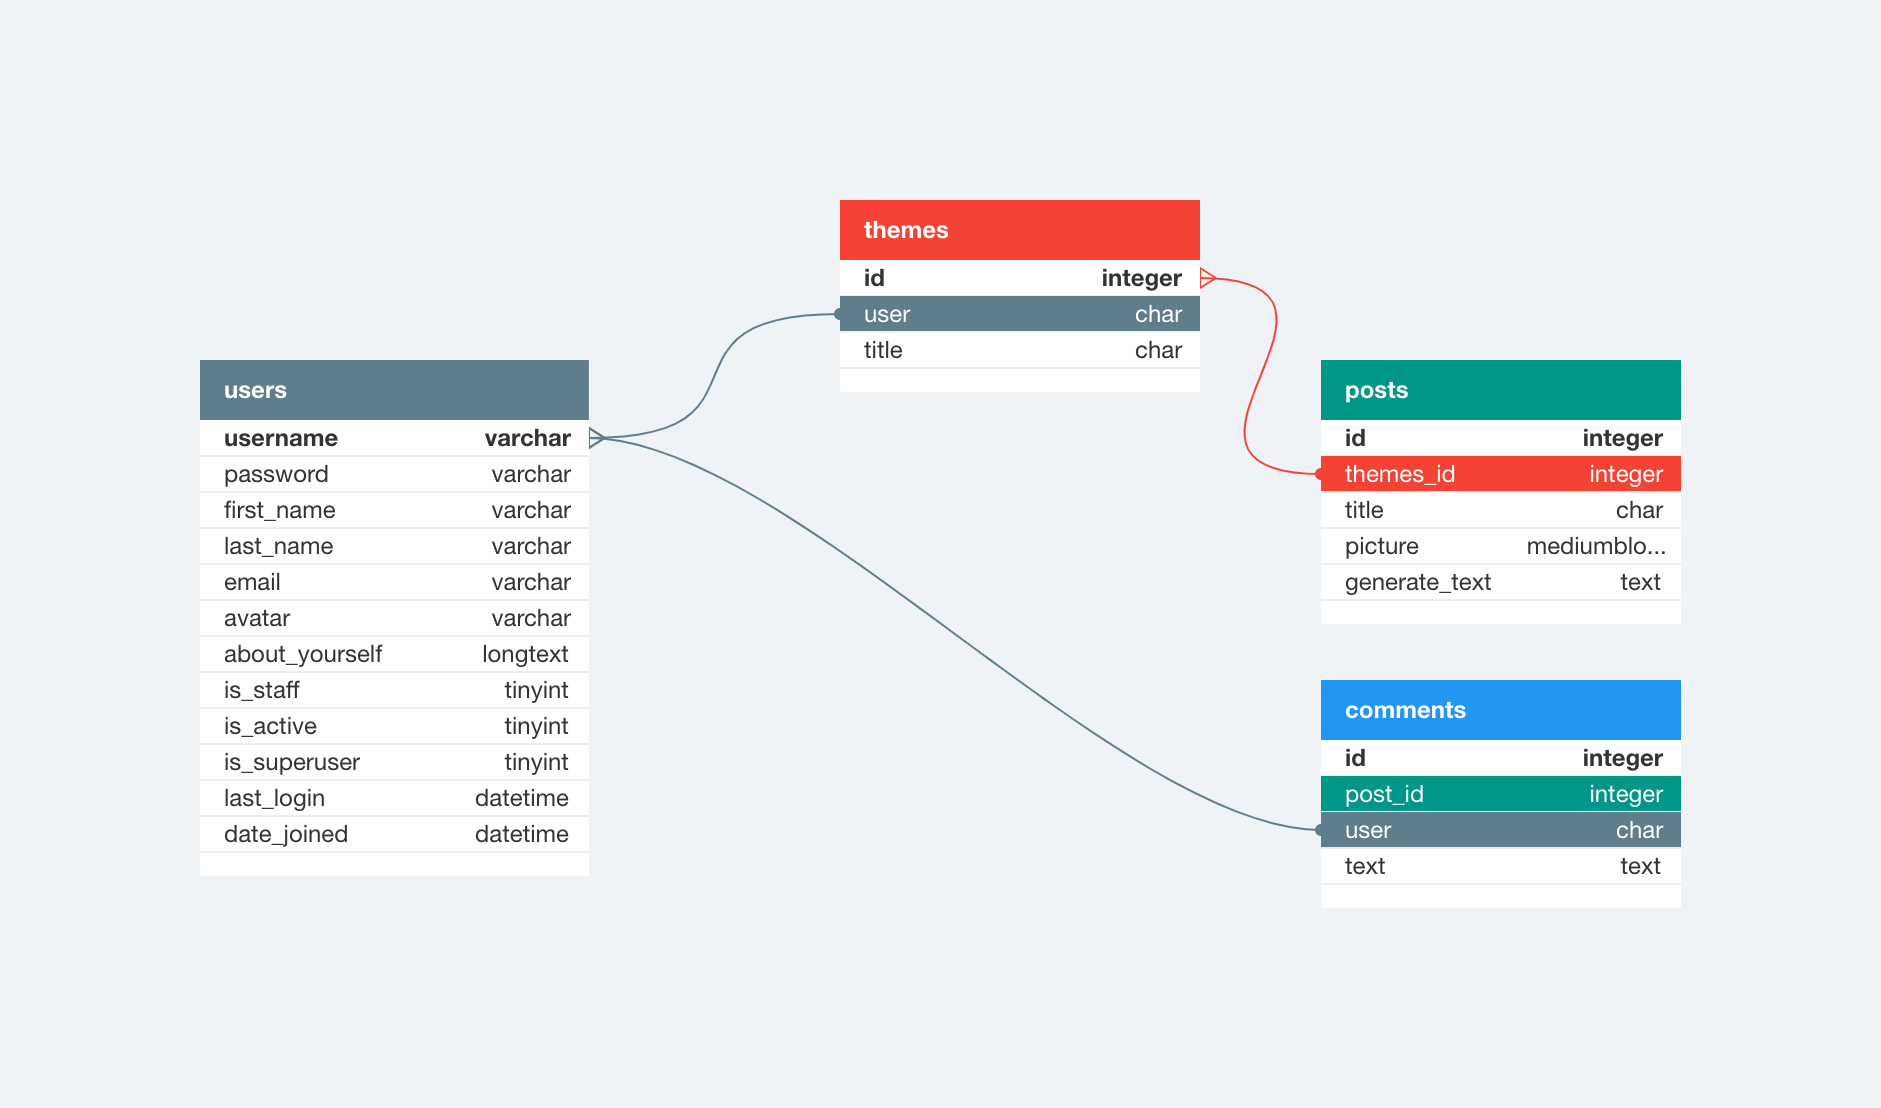
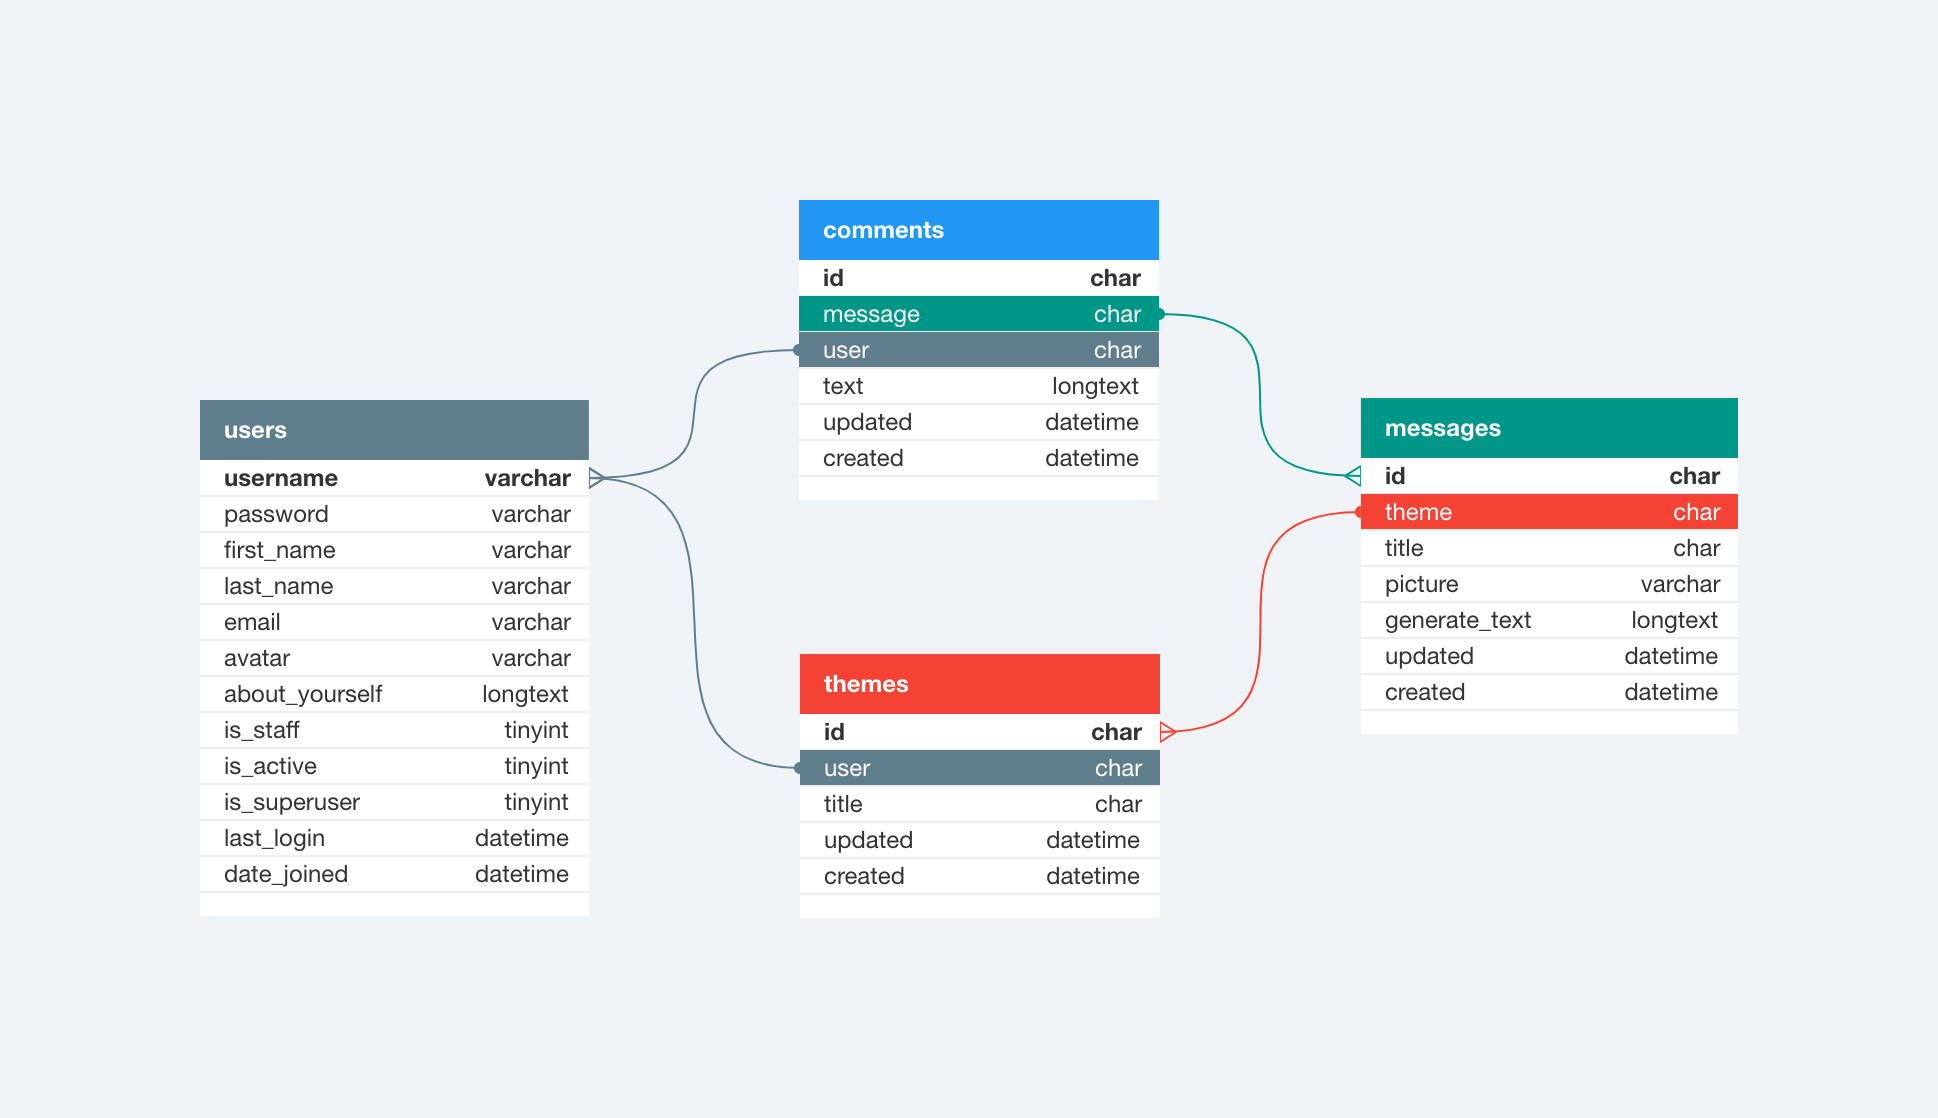
feat: add communications

diff --git a/src/communications/templates/communications/message_form.html b/src/communications/templates/communications/message_form.html
@@ -1,0 +1,18 @@
+<!DOCTYPE html>
+<html lang="en">
+<head>
+  <meta charset="UTF-8">
+  <meta http-equiv="X-UA-Compatible" content="IE=edge">
+  <meta name="viewport" content="width=device-width, initial-scale=1.0">
+  <title>Title</title>
+</head>
+<body>
+
+  <form method="POST" enctype="multipart/form-data" action="{% url 'message-create' %}?theme={{ request.GET.theme }}">
+    {% csrf_token %}
+    {{ form.as_p }}
+    <button type="submit">Создать сообщение</button>
+  </form>
+
+</body>
+</html>

diff --git a/src/communications/templates/communications/theme_form.html b/src/communications/templates/communications/theme_form.html
@@ -1,0 +1,18 @@
+<!DOCTYPE html>
+<html lang="en">
+<head>
+  <meta charset="UTF-8">
+  <meta http-equiv="X-UA-Compatible" content="IE=edge">
+  <meta name="viewport" content="width=device-width, initial-scale=1.0">
+  <title>Title</title>
+</head>
+<body>
+
+  <form method="post" action="{% url 'theme-create' %}">
+    {% csrf_token %}
+    {{ form.as_p }}
+    <button type="submit">Создать тему</button>
+  </form>
+
+</body>
+</html>

diff --git a/src/communications/templates/communications/message_list.html b/src/communications/templates/communications/message_list.html
@@ -1,0 +1,16 @@
+<!DOCTYPE html>
+<html lang="en">
+<head>
+  <meta charset="UTF-8">
+  <meta http-equiv="X-UA-Compatible" content="IE=edge">
+  <meta name="viewport" content="width=device-width, initial-scale=1.0">
+  <title>Title</title>
+</head>
+<body>
+
+  {% for message in messages %}
+    <p>{{ message }}</p>
+  {% endfor %}
+
+</body>
+</html>

diff --git a/src/communications/templates/communications/theme_list.html b/src/communications/templates/communications/theme_list.html
@@ -1,0 +1,16 @@
+<!DOCTYPE html>
+<html lang="en">
+<head>
+  <meta charset="UTF-8">
+  <meta http-equiv="X-UA-Compatible" content="IE=edge">
+  <meta name="viewport" content="width=device-width, initial-scale=1.0">
+  <title>Title</title>
+</head>
+<body>
+
+  {% for theme in themes %}
+    <p>{{ theme }}</p>
+  {% endfor %}
+
+</body>
+</html>

diff --git a/src/communications/templates/communications/message_detail.html b/src/communications/templates/communications/message_detail.html
@@ -1,0 +1,14 @@
+<!DOCTYPE html>
+<html lang="en">
+<head>
+  <meta charset="UTF-8">
+  <meta http-equiv="X-UA-Compatible" content="IE=edge">
+  <meta name="viewport" content="width=device-width, initial-scale=1.0">
+  <title>Title</title>
+</head>
+<body>
+
+  {{ object }}
+
+</body>
+</html>

diff --git a/src/communications/templates/communications/theme_detail.html b/src/communications/templates/communications/theme_detail.html
@@ -1,0 +1,14 @@
+<!DOCTYPE html>
+<html lang="en">
+<head>
+  <meta charset="UTF-8">
+  <meta http-equiv="X-UA-Compatible" content="IE=edge">
+  <meta name="viewport" content="width=device-width, initial-scale=1.0">
+  <title>Title</title>
+</head>
+<body>
+
+  {{ object }}
+
+</body>
+</html>

diff --git a/src/communications/migrations/0001_initial.py b/src/communications/migrations/0001_initial.py
@@ -1,0 +1,65 @@
+# Generated by Django 4.2.3 on 2023-07-25 13:54
+
+import uuid
+
+import django.db.models.deletion
+import tinymce.models
+from django.conf import settings
+from django.db import migrations, models
+
+
+class Migration(migrations.Migration):
+
+    initial = True
+
+    dependencies = [
+        migrations.swappable_dependency(settings.AUTH_USER_MODEL),
+    ]
+
+    operations = [
+        migrations.CreateModel(
+            name='Theme',
+            fields=[
+                ('id', models.UUIDField(default=uuid.uuid4, editable=False, primary_key=True, serialize=False)),
+                ('created', models.DateTimeField(auto_now_add=True, verbose_name='Дата создания')),
+                ('updated', models.DateTimeField(auto_now=True, verbose_name='Дата последнего обновления')),
+                ('title', models.CharField(max_length=150, verbose_name='Название')),
+                ('user', models.ForeignKey(on_delete=django.db.models.deletion.CASCADE, related_name='themes', to=settings.AUTH_USER_MODEL, verbose_name='Пользователь')),
+            ],
+            options={
+                'verbose_name': 'Тема',
+                'verbose_name_plural': 'Темы',
+            },
+        ),
+        migrations.CreateModel(
+            name='Message',
+            fields=[
+                ('id', models.UUIDField(default=uuid.uuid4, editable=False, primary_key=True, serialize=False)),
+                ('created', models.DateTimeField(auto_now_add=True, verbose_name='Дата создания')),
+                ('updated', models.DateTimeField(auto_now=True, verbose_name='Дата последнего обновления')),
+                ('title', models.CharField(max_length=150, verbose_name='Название')),
+                ('picture', models.ImageField(upload_to='pictures', verbose_name='Картинка')),
+                ('generate_text', models.TextField(blank=True, verbose_name='Сгенерированный текст')),
+                ('theme', models.ForeignKey(on_delete=django.db.models.deletion.CASCADE, related_name='messages', to='communications.theme', verbose_name='Тема')),
+            ],
+            options={
+                'verbose_name': 'Сообщение',
+                'verbose_name_plural': 'Сообщения',
+            },
+        ),
+        migrations.CreateModel(
+            name='Comment',
+            fields=[
+                ('id', models.UUIDField(default=uuid.uuid4, editable=False, primary_key=True, serialize=False)),
+                ('created', models.DateTimeField(auto_now_add=True, verbose_name='Дата создания')),
+                ('updated', models.DateTimeField(auto_now=True, verbose_name='Дата последнего обновления')),
+                ('text', tinymce.models.HTMLField(verbose_name='текст')),
+                ('message', models.ForeignKey(on_delete=django.db.models.deletion.CASCADE, related_name='comments', to='communications.message', verbose_name='Сообщение')),
+                ('user', models.ForeignKey(on_delete=django.db.models.deletion.CASCADE, related_name='comments', to=settings.AUTH_USER_MODEL, verbose_name='Пользователь')),
+            ],
+            options={
+                'verbose_name': 'Комментарий',
+                'verbose_name_plural': 'Комментарии',
+            },
+        ),
+    ]

diff --git a/src/communications/views.py b/src/communications/views.py
@@ -1,0 +1,89 @@
+from django.contrib.auth.mixins import LoginRequiredMixin
+from django.core.exceptions import ValidationError
+from django.http import HttpResponseBadRequest
+from django.shortcuts import get_object_or_404
+from django.views.generic import CreateView, DetailView, ListView, View
+
+from users.models import User
+
+from .models import Message, Theme
+
+
+class ErrorHandlingMixin(View):
+    def dispatch(self, request, *args, **kwargs):
+        try:
+            return super().dispatch(request, *args, **kwargs)
+        except ValidationError as e:
+            return HttpResponseBadRequest(str(e))
+
+
+class ThemeListView(ErrorHandlingMixin, ListView):
+    model = Theme
+    # template_name = 'communications/theme_list.html'
+    context_object_name = 'themes'
+
+    def get_queryset(self):
+        username = self.request.GET.get('user')
+        if username is None:
+            raise ValidationError('Missing "user" parameter.', code='invalid_username')
+        user = get_object_or_404(User, pk=username)
+        return Theme.objects.filter(user=user).order_by('-updated')
+
+
+class ThemeCreateView(LoginRequiredMixin, CreateView):
+    model = Theme
+    # template_name = 'communications/theme_form.html'
+    fields = ('title',)
+
+    def form_valid(self, form):
+        form.instance.user = self.request.user
+        return super().form_valid(form)
+
+    def get_context_data(self, **kwargs):
+        ctx = super().get_context_data(**kwargs)
+        # ctx['title'] = News.objects.filter(pk=self.kwargs['pk']).first()
+        # ctx['title'] = 'Добавление статьи'
+        return ctx
+
+
+class ThemeDetailView(LoginRequiredMixin, DetailView):
+    model = Theme
+    # template_name = 'communications/theme_detail.html'
+
+    def get_context_data(self, **kwargs):
+        ctx = super().get_context_data(**kwargs)
+        # ctx['title'] = Course.objects.filter(slug=self.kwargs['slug']).first()
+        # ctx['lessons'] = Lesson.objects.filter(course=ctx['title']).order_by('number')
+        return ctx
+
+
+class MessageListView(ErrorHandlingMixin, ListView):
+    model = Message
+    # template_name = 'communications/message_list.html'
+    context_object_name = 'messages'
+
+    def get_queryset(self):
+        theme_id = self.request.GET.get('theme')
+        if theme_id is None:
+            raise ValidationError('Missing "theme" parameter.', code='invalid_theme_id')
+        theme = get_object_or_404(Theme, pk=theme_id)
+        return Message.objects.filter(theme=theme).order_by('-updated')
+
+
+class MessageCreateView(LoginRequiredMixin, ErrorHandlingMixin, CreateView):
+    model = Message
+    # template_name = 'Communications/message_form.html'
+    fields = ('title', 'picture')
+
+    def form_valid(self, form):
+        theme_id = self.request.GET.get('theme')
+        if theme_id is None:
+            raise ValidationError('Missing "theme" parameter.', code='invalid_theme_id')
+        form.instance.theme = get_object_or_404(Theme, pk=theme_id)
+        form.instance.title = 'название'
+        return super().form_valid(form)
+
+
+class MessageDetailView(LoginRequiredMixin, DetailView):
+    model = Message
+    # template_name = 'communications/message_detail.html'

diff --git a/src/communications/models.py b/src/communications/models.py
@@ -1,0 +1,67 @@
+import uuid
+
+from django.db import models
+from django.urls import reverse
+from django.utils.html import strip_tags
+from tinymce import models as tinymce_models
+
+from users.models import User
+
+
+class BaseModel(models.Model):
+    id = models.UUIDField(primary_key=True, default=uuid.uuid4, editable=False)
+    created = models.DateTimeField('Дата создания', auto_now_add=True)
+    updated = models.DateTimeField('Дата последнего обновления', auto_now=True)
+
+    class Meta:
+        abstract = True
+
+
+class Message(BaseModel):
+    title = models.CharField('Название', max_length=150)
+    picture = models.ImageField('Картинка', upload_to='pictures')
+    generate_text = models.TextField('Сгенерированный текст', blank=True)
+    theme = models.ForeignKey('Theme', on_delete=models.CASCADE,
+                              verbose_name='Тема', related_name='messages')
+
+    class Meta:
+        verbose_name = 'Сообщение'
+        verbose_name_plural = 'Сообщения'
+
+    def get_absolute_url(self):
+        return reverse('message-detail', kwargs={'pk': self.pk})
+
+    def __str__(self):
+        return self.title if len(self.title) <= 24 else self.title[:24] + '...'
+
+
+class Theme(BaseModel):
+    title = models.CharField('Название', max_length=150)
+    user = models.ForeignKey(User, on_delete=models.CASCADE,
+                             verbose_name='Пользователь', related_name='themes')
+
+    class Meta:
+        verbose_name = 'Тема'
+        verbose_name_plural = 'Темы'
+
+    def get_absolute_url(self):
+        return reverse('theme-detail', kwargs={'pk': self.pk})
+
+    def __str__(self):
+        return self.title if len(self.title) <= 24 else self.title[:24] + '...'
+
+
+class Comment(BaseModel):
+    text = tinymce_models.HTMLField('текст')
+    message = models.ForeignKey('Message', on_delete=models.CASCADE,
+                                verbose_name='Сообщение', related_name='comments')
+    user = models.ForeignKey(User, on_delete=models.CASCADE,
+                             verbose_name='Пользователь', related_name='comments')
+
+    class Meta:
+        verbose_name = 'Комментарий'
+        verbose_name_plural = 'Комментарии'
+
+    def __str__(self):
+        text = strip_tags(self.text)
+        return text if len(text) <= 24 else text[:24] + '...'

diff --git a/src/communications/admin.py b/src/communications/admin.py
@@ -1,0 +1,48 @@
+from django.contrib import admin
+from django.utils.html import format_html
+
+from .models import Comment, Message, Theme
+
+
+@admin.register(Message)
+class MessageAdmin(admin.ModelAdmin):
+    list_display = ('id', 'title', 'theme', 'created')
+    list_display_links = ('id', 'title')
+    ordering = ('updated',)
+    search_fields = ('title',)
+    list_filter = ('theme', 'created')
+
+    fields = ('title', 'preview_picture', 'picture', 'generate_text', 'theme', 'theme_user', 'updated', 'created')
+    raw_id_fields = ('theme',)
+    readonly_fields = ('preview_picture', 'theme_user', 'updated', 'created')
+
+    @admin.display(description='предпросмотр')
+    def preview_picture(self, message):
+        return format_html('<img src="{}" style="max-width: 256px;">', message.picture.url)
+
+    @admin.display(description='автор')
+    def theme_user(self, message):
+        return message.theme.user.username
+
+
+@admin.register(Theme)
+class ThemeAdmin(admin.ModelAdmin):
+    list_display = ('id', 'title', 'created')
+    list_display_links = ('id', 'title')
+    ordering = ('updated',)
+    search_fields = ('title',)
+    list_filter = ('created',)
+
+    raw_id_fields = ('user',)
+    readonly_fields = ('updated', 'created')
+
+
+@admin.register(Comment)
+class CommentAdmin(admin.ModelAdmin):
+    list_display = ('id', '__str__', 'message')
+    search_fields = ('text',)
+    list_filter = ('created',)
+    ordering = ('updated',)
+
+    raw_id_fields = ('message', 'user')
+    readonly_fields = ('updated', 'created')

diff --git a/src/communications/urls.py b/src/communications/urls.py
@@ -1,0 +1,13 @@
+from django.urls import path
+
+from . import views
+
+urlpatterns = [
+    path('themes/', views.ThemeListView.as_view(), name='theme-list'),
+    path('themes/add', views.ThemeCreateView.as_view(), name='theme-create'),
+    path('themes/<str:pk>', views.ThemeDetailView.as_view(), name='theme-detail'),
+
+    path('messages/', views.MessageListView.as_view(), name='message-list'),
+    path('messages/add', views.MessageCreateView.as_view(), name='message-create'),
+    path('messages/<str:pk>', views.MessageDetailView.as_view(), name='message-detail'),
+]

diff --git a/src/anti_messenger/urls.py b/src/anti_messenger/urls.py
@@ -23,6 +23,7 @@ urlpatterns = [
     path('admin/', admin.site.urls),
     path('tinymce/', include('tinymce.urls')),
     path('accounts/', include('users.urls')),
+    path('anti/', include('communications.urls')),
 ]
 
 if settings.DEBUG:
